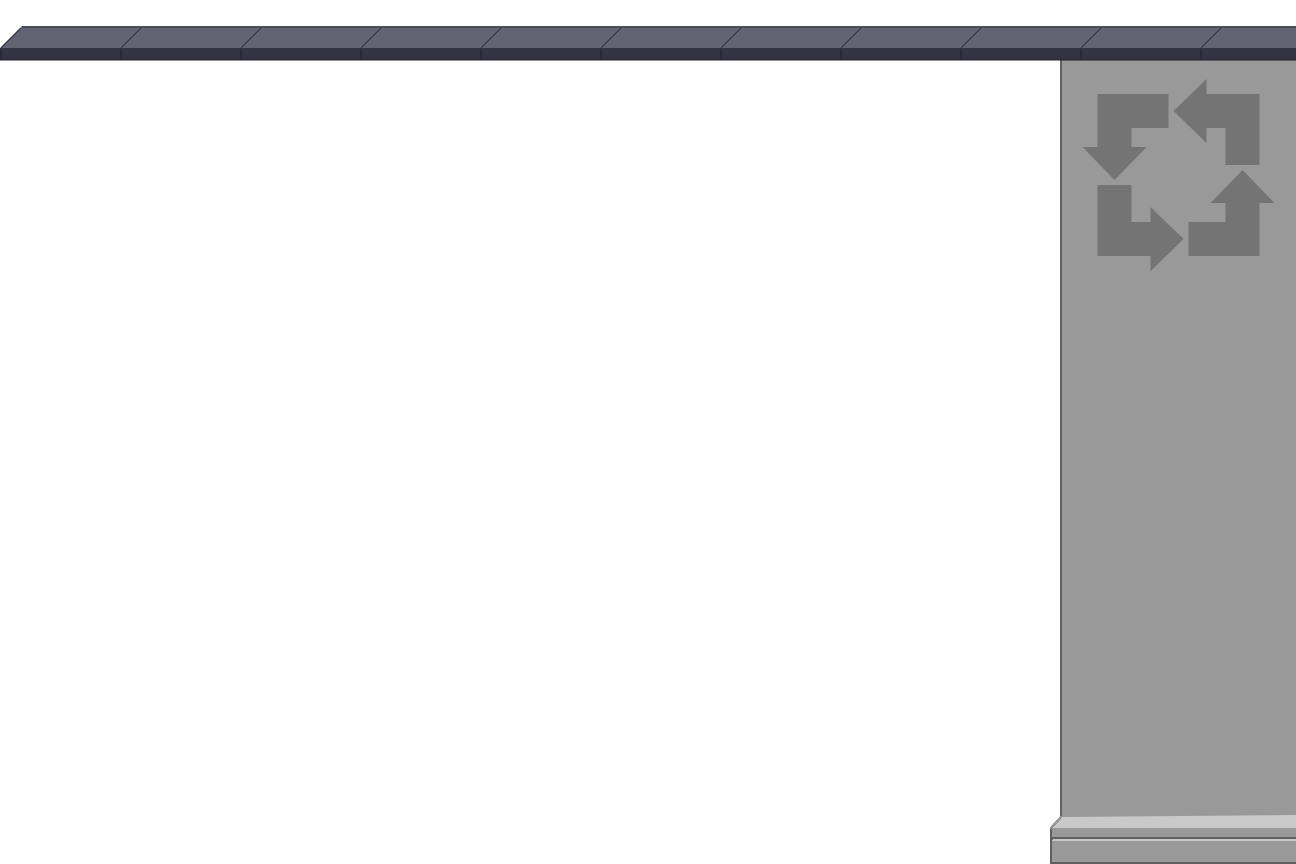
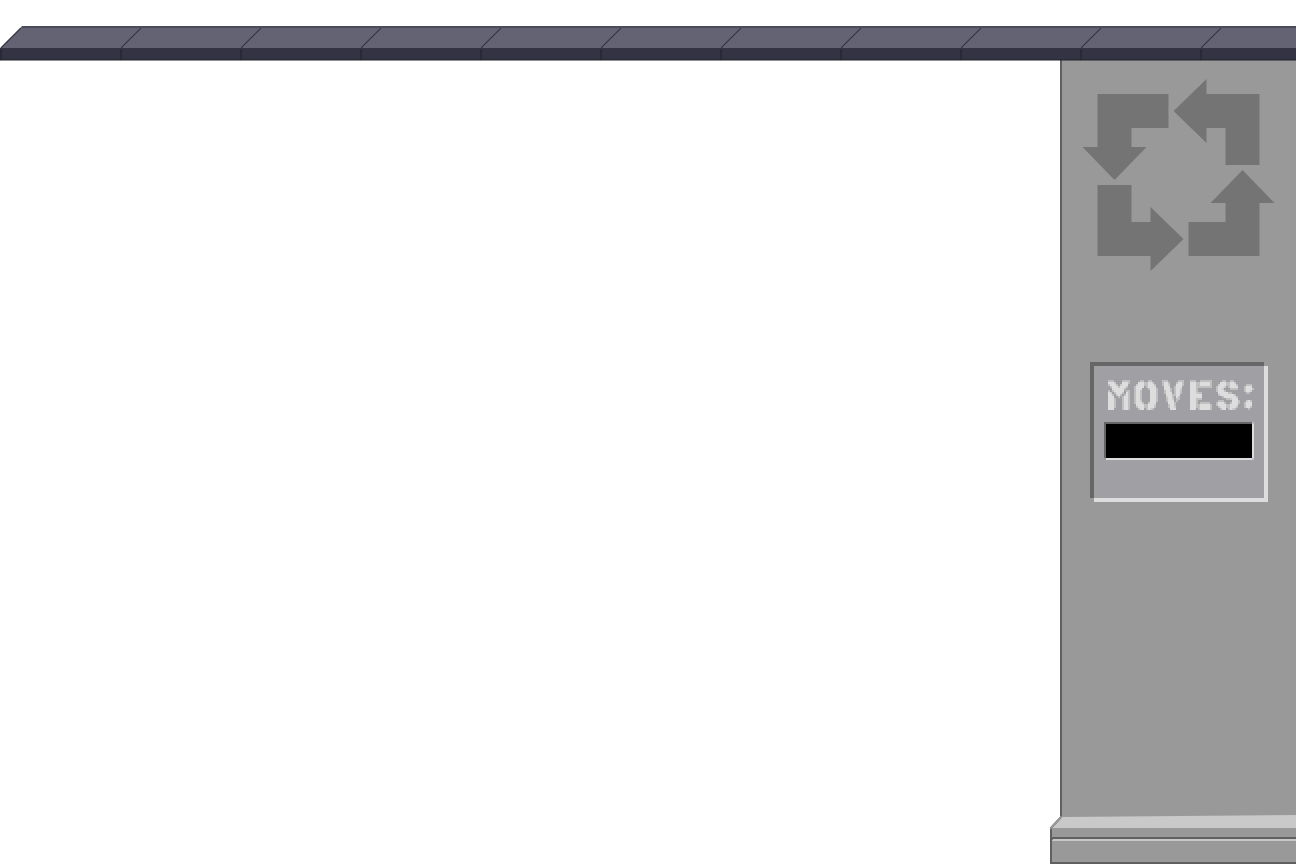
[Build] Move counter!

Changed region(s): [[0.8333, 0.4062, 0.9877, 0.5938]]

diff --git a/src/game/gameobjects/brickhandler.ts b/src/game/gameobjects/brickhandler.ts
@@ -3,6 +3,7 @@ import {col1D, GMULTX, GMULTY, colBoundingBoxGrid, colPointRectGrid, colPointPar
 import Vect, { Point } from "engine/utilities/vect";
 import Brick from "./brick";
 import CharacterHandler from "./characterhandler";
+import Counter from "./counter";
 import MobileIndicator from "./mobileindicator";
 
 export enum BrickHandlerState {
@@ -28,6 +29,9 @@ export default class BrickHandler extends GameObject {
 
     /** */
     private characterHandler! : CharacterHandler;
+
+    /** */
+    private counter!: Counter;
 
     /** Rows of bricks */
     private rows: BrickRow[] = [];
@@ -55,12 +59,15 @@ export default class BrickHandler extends GameObject {
         this.characterHandler = this.engine.tag.get(        // Get character handler from scene
             "CharacterHandler", 
             "LevelInterface")[0] as CharacterHandler;
-        this.mobileIndicator = this.engine.tag.get(         // Get mobile indicator handler from scene
+        this.mobileIndicator = this.engine.tag.get(         // Get mobile indicator from scene
             "MobileIndicator", 
             "LevelInterface")[0] as MobileIndicator;
+        this.counter = this.engine.tag.get(                 // Get counter from scene
+            "Counter", 
+            "LevelInterface")[0] as Counter;       
         this.bricks = this.engine.tag.get(                  // Get bricks from scene
             "Brick", 
-            "Level") as Brick[];                            
+            "Level") as Brick[];                     
         this.bricks.forEach(b => this.addBrickToRows(b));   // Add bricks into rows
         this.sortRows();                                    // Sort rows/bricks within rows
 
@@ -489,6 +496,8 @@ export default class BrickHandler extends GameObject {
         selection?.forEach(b => b.select(pos));
 
         this.mobileIndicator!.cursorPosition = pos;
+
+        this.counter.incrementCount();
 
         return !!selection;
     }

diff --git a/src/game/gameobjects/counter.ts b/src/game/gameobjects/counter.ts
@@ -1,0 +1,31 @@
+import Engine from "engine/engine";
+import GameObject, { GameObjectParams } from "engine/gameobjects/gameobject";
+import { GMULTX, GMULTY } from "engine/utilities/math";
+
+interface CounterParams extends GameObjectParams {
+    font?: string;
+}
+
+
+export default class Counter extends GameObject {
+
+    private count : number = 0;
+    private font: string = "";
+    
+    constructor(engine: Engine, params: CounterParams) {
+        super(engine, params);
+
+        this.font = params.font ?? "32px FiveByFive";
+    }
+
+    public incrementCount() {
+        this.count++;
+    }
+
+    public draw(ctx: CanvasRenderingContext2D): void {
+        ctx.textAlign = "right";
+        ctx.font = this.font;
+        ctx.fillStyle = "#DD9C00";
+        ctx.fillText("" + this.count, GMULTX * 35 + 200, 450);
+    }
+}

diff --git a/build/game/gameobjects/brickhandler.js b/build/game/gameobjects/brickhandler.js
@@ -25,6 +25,7 @@ export default class BrickHandler extends GameObject {
   init(ctx) {
     this.characterHandler = this.engine.tag.get("CharacterHandler", "LevelInterface")[0];
     this.mobileIndicator = this.engine.tag.get("MobileIndicator", "LevelInterface")[0];
+    this.counter = this.engine.tag.get("Counter", "LevelInterface")[0];
     this.bricks = this.engine.tag.get("Brick", "Level");
     this.bricks.forEach((b) => this.addBrickToRows(b));
     this.sortRows();
@@ -219,6 +220,7 @@ export default class BrickHandler extends GameObject {
   processSelection(selection, pos) {
     selection?.forEach((b) => b.select(pos));
     this.mobileIndicator.cursorPosition = pos;
+    this.counter.incrementCount();
     return !!selection;
   }
   recurseBrick(brick1, dirs, checkGrey) {

diff --git a/src/game/load.ts b/src/game/load.ts
@@ -8,6 +8,7 @@ import Character from "./gameobjects/character";
 import CharacterBin from "./gameobjects/characterbin";
 import CharacterBot from "./gameobjects/characterbot";
 import CharacterHandler from "./gameobjects/characterhandler";
+import Counter from "./gameobjects/counter";
 import Cursor from "./gameobjects/cursor";
 import CursorIcon from "./gameobjects/cursoricon";
 import FPSCounter from "./gameobjects/fpscounter";
@@ -35,6 +36,7 @@ window.onload = function() {
             CharacterBot,
             CharacterBin,
             CharacterHandler,
+            Counter,
             Cursor,
             CursorIcon,
             FPSCounter,

diff --git a/build/game/load.js b/build/game/load.js
@@ -8,6 +8,7 @@ import Character from "./gameobjects/character.js";
 import CharacterBin from "./gameobjects/characterbin.js";
 import CharacterBot from "./gameobjects/characterbot.js";
 import CharacterHandler from "./gameobjects/characterhandler.js";
+import Counter from "./gameobjects/counter.js";
 import Cursor from "./gameobjects/cursor.js";
 import CursorIcon from "./gameobjects/cursoricon.js";
 import FPSCounter from "./gameobjects/fpscounter.js";
@@ -28,6 +29,7 @@ window.onload = function() {
     CharacterBot,
     CharacterBin,
     CharacterHandler,
+    Counter,
     Cursor,
     CursorIcon,
     FPSCounter,

diff --git a/build/game/gameobjects/counter.js b/build/game/gameobjects/counter.js
@@ -1,0 +1,20 @@
+import GameObject from "../../engine/gameobjects/gameobject.js";
+import {GMULTX} from "../../engine/utilities/math.js";
+export default class Counter extends GameObject {
+  constructor(engine2, params) {
+    super(engine2, params);
+    this.count = 0;
+    this.font = "";
+    this.font = params.font ?? "32px FiveByFive";
+  }
+  incrementCount() {
+    this.count++;
+  }
+  draw(ctx) {
+    ctx.textAlign = "right";
+    ctx.font = this.font;
+    ctx.fillStyle = "#DD9C00";
+    ctx.fillText("" + this.count, GMULTX * 35 + 200, 450);
+  }
+}
+//# sourceMappingURL=counter.js.map
